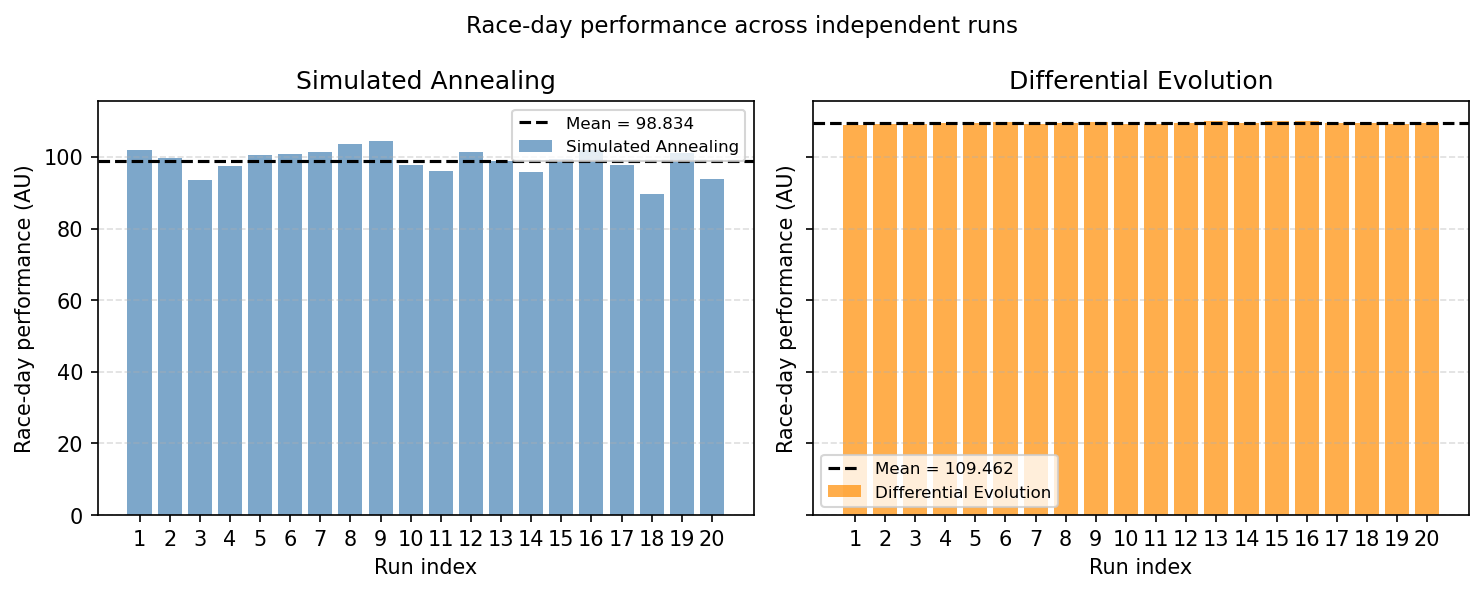
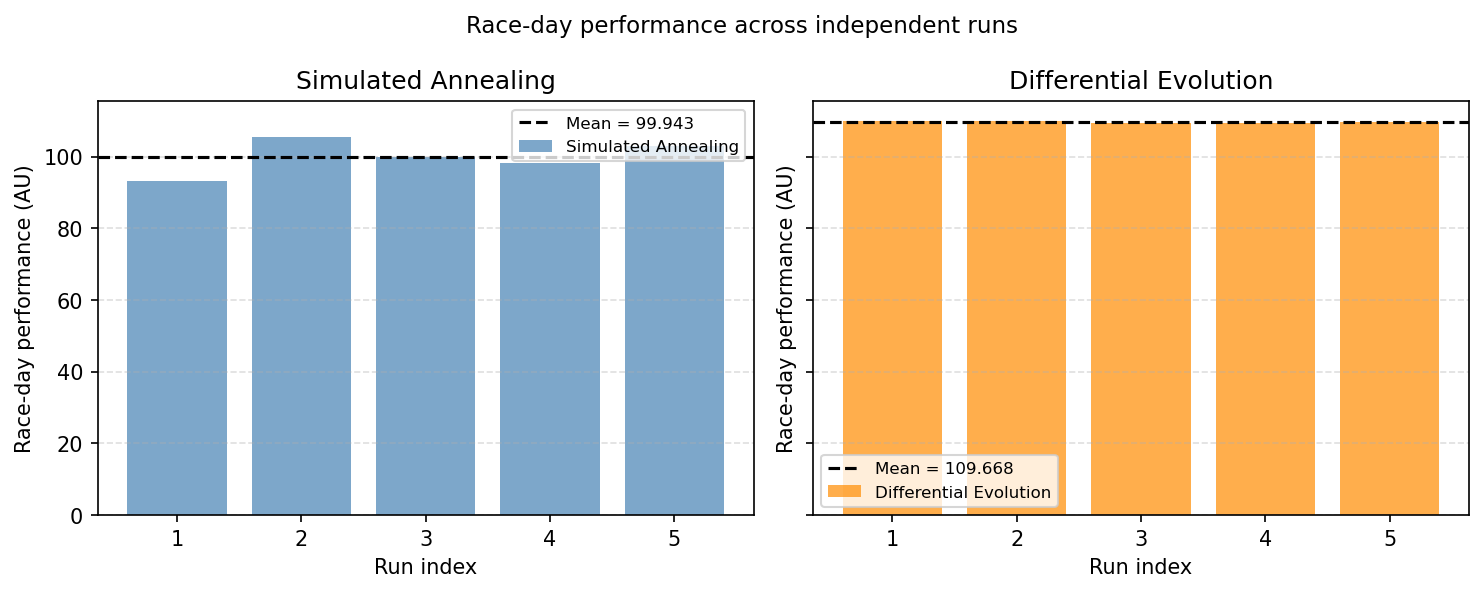
improved convergence curve

Changed region(s): [[0.558, 0.1821, 0.9609, 0.941], [0.062, 0.2125, 0.496, 0.941], [0.434, 0.1821, 0.465, 0.2125]]

diff --git a/compare_optimizers.py b/compare_optimizers.py
@@ -43,9 +43,9 @@ os.makedirs(output_dir, exist_ok=True)
 # ─────────────────────────────────────────────
 # EXPERIMENT SETTINGS
 # ─────────────────────────────────────────────
-N_RUNS      = 20
-SA_MAXITER  = 50    # enough to see convergence trends without excessive runtime
-DE_MAXITER  = 250   # for tractable comparison time
+N_RUNS      = 5
+SA_MAXITER  = 50    # enough for convergence to be 0 without excessive runtime
+DE_MAXITER  = 1000 # DE stops after tolerance is met, so this is a max cap rather than the max iterations
 DE_POPSIZE  = 15
 
 sa_bounds = [(0, MAX_RUN_KM)] * n_days
@@ -55,18 +55,31 @@ sa_bounds = [(0, MAX_RUN_KM)] * n_days
 # CONVERGENCE TRACKING WRAPPER
 # ─────────────────────────────────────────────
 
-def _make_tracked(fn):
-    """Wrap an objective so every call appends (nfev, best_perf) to .history."""
-    count  = [0]
-    best   = [np.inf]
-    history = []          # list of (cumulative_nfev, best_performance_so_far)
+def _make_tracked(fn, perf_fn=None):
+    """Wrap an objective so every call appends (nfev, best_perf) to .history.
+
+    perf_fn: optional callable(x, val) -> float that extracts the true
+    race-day performance from a candidate x and its objective value val.
+    When None (default), best performance is taken as -val, which is correct
+    for objectives of the form ``return -perf[-1]`` with no penalty term
+    (i.e. DE).  For SA, pass a perf_fn that re-simulates after repair so
+    that penalty terms do not contaminate the convergence curve.
+    """
+    count    = [0]
+    best_obj = [np.inf]
+    history  = []          # list of (cumulative_nfev, best_performance_so_far)
 
     def wrapper(x):
         val = fn(x)
         count[0] += 1
-        if val < best[0]:
-            best[0] = val
-        history.append((count[0], -best[0]))   # performance = -objective
+        if val < best_obj[0]:
+            best_obj[0] = val
+            best_perf = perf_fn(x, val) if perf_fn is not None else -val
+            history.append((count[0], best_perf))
+        elif history:
+            history.append((count[0], history[-1][1]))
+        else:
+            history.append((count[0], -np.inf))
         return val
 
     wrapper.history = history
@@ -77,8 +90,15 @@ def _make_tracked(fn):
 # SINGLE-RUN HELPERS
 # ─────────────────────────────────────────────
 
+def _sa_perf_fn(x, val):
+    """True race-day performance for an SA candidate (simulate after repair)."""
+    repaired = sa_repair(x.copy())
+    perf, _, _, _ = simulate_busso(repaired, params_busso)
+    return perf[-1]
+
+
 def _run_sa() -> dict:
-    tracked = _make_tracked(busso_objective_penalty)
+    tracked = _make_tracked(busso_objective_penalty, perf_fn=_sa_perf_fn)
     t0      = time.perf_counter()
     res     = dual_annealing(tracked, bounds=sa_bounds, maxiter=SA_MAXITER)
     elapsed = time.perf_counter() - t0
@@ -102,9 +122,12 @@ def _run_de() -> dict:
     tracked = _make_tracked(de_objective)
     t0      = time.perf_counter()
     res     = differential_evolution(
-        tracked, de_bounds,
-        strategy="best1bin", maxiter=DE_MAXITER,
-        popsize=DE_POPSIZE, tol=0.01,
+        tracked,
+        de_bounds,
+        strategy="best1bin",
+        maxiter=DE_MAXITER,
+        popsize=DE_POPSIZE,
+        tol=0.01,
     )
     elapsed = time.perf_counter() - t0
 
